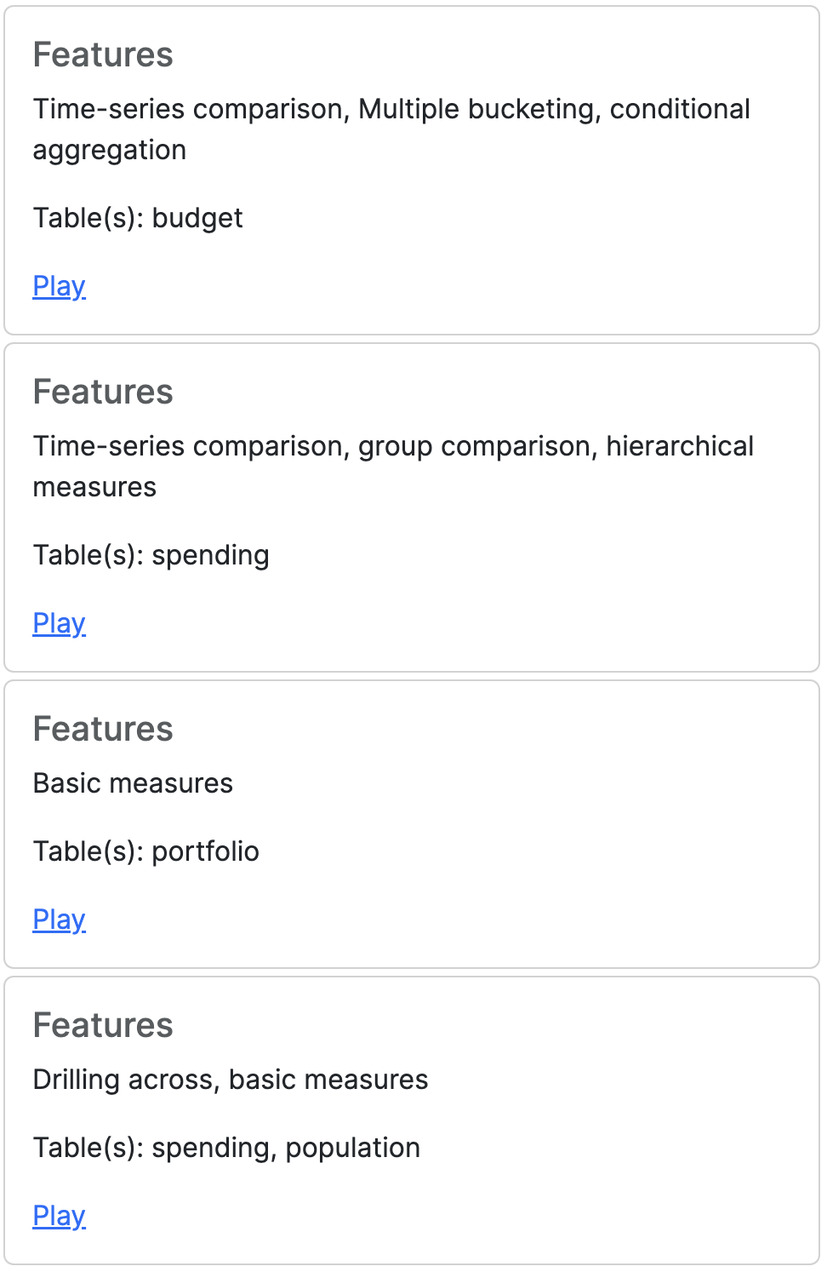
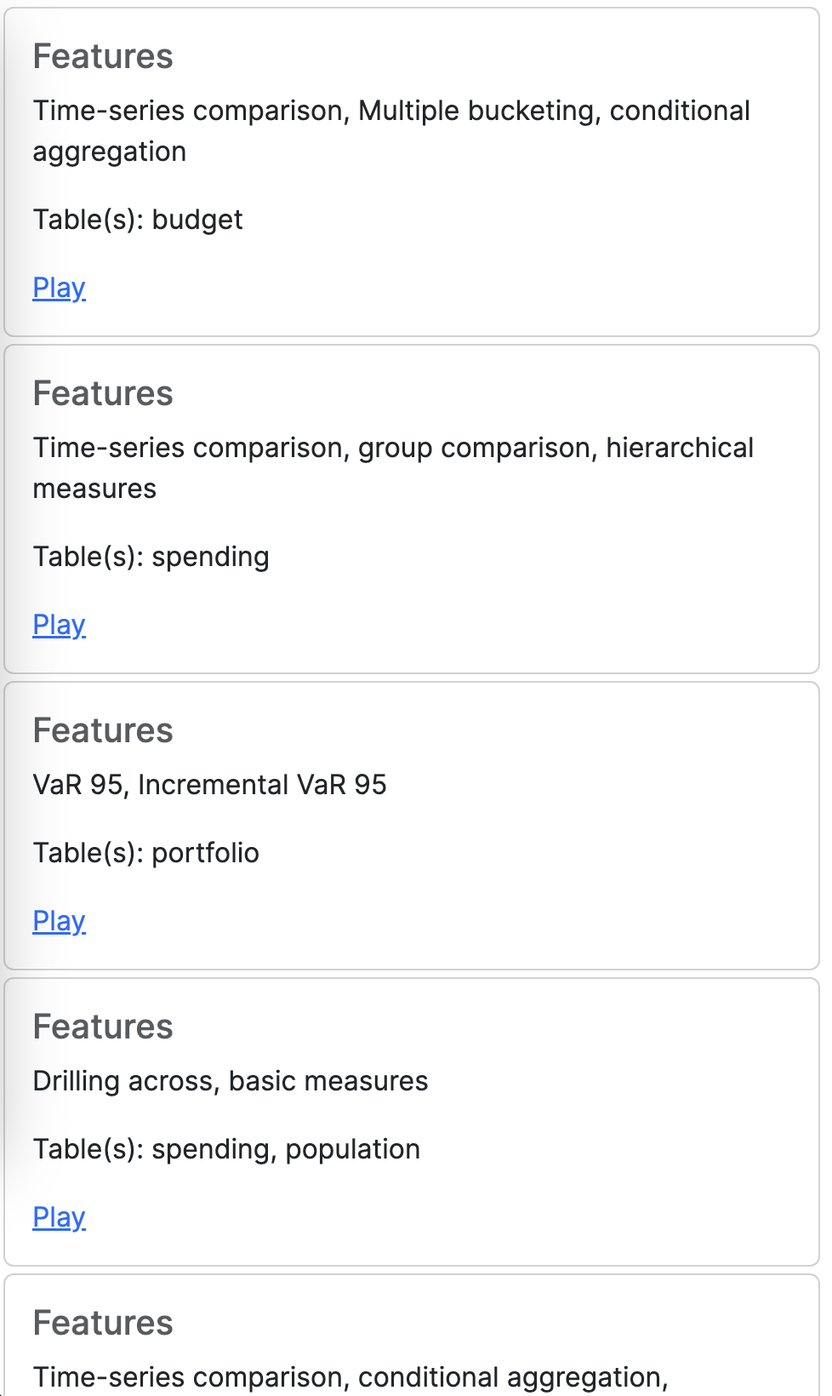
update tutorial (#38)

Changed region(s): [[0.0, 0.0, 1.0, 1.0], [0.9568, 0.9853, 0.9877, 1.0]]

diff --git a/ui/src/app/page.tsx b/ui/src/app/page.tsx
@@ -35,7 +35,7 @@ export default function Page() {
                   features={["Drilling across", "basic measures"]}/>
             <Card link={"financialplanning"} tables={["forecast"]}
                   features={["Time-series comparison", "conditional aggregation", "hierarchical measures"]}/>
-            <Card link={"blank"} tables={["blank"]} features={[]}/>
+            <Card link={"blank"} tables={["blank"]} features={["Load your own csv file and create your own calculations"]}/>
           </div>
   )
 }

diff --git a/TUTORIAL.md b/TUTORIAL.md
@@ -121,7 +121,7 @@ Filter the table with `criterion(budget.scenario, eq("b"))`
 <details><summary>Code</summary>
 
 ```typescript
-const query = from("budget")
+const query = from(budget._name)
         .where(criterion(budget.scenario, eq("b")))
         .select([budget.year, budget.month, budget.category], [], [income, expenditure])
         .build()
@@ -185,7 +185,7 @@ Use the `minus` operator to compute the difference.
 
 ```typescript
 const netIncome = minus("Net income", income, expenditure)
-const query = from("budget")
+const query = from(budget._name)
         .where(criterion(budget.scenario, eq("b")))
         .select([budget.year, budget.month], [], [netIncome])
         .build()
@@ -263,9 +263,9 @@ Execute a query that shows the Net Income Growth for each year.
 <details><summary>Result</summary>
 
 ```typescript      
-const query = from("budget")
-        .where(criterion("Scenario", eq("b")))
-        .select(["Year"], [], [netIncome, netIncomeGrowth])
+const query = from(budget._name)
+        .where(criterion(budget.scenario, eq("b")))
+        .select([budget.year], [], [netIncome, netIncomeGrowth])
         .build()
 ```
 
@@ -337,8 +337,16 @@ And use this column, satisfaction level, for our analysis.
 
 Let's first define the virtual table in Typescript:
 ```typescript
-import {VirtualTable} from "@squashql/squashql-js"
-import {satisfactionLevels} from "./tables"
+import {TableField, VirtualTable} from "@squashql/squashql-js"
+
+class SatisfactionLevels {
+  readonly _name: string = "satisfaction_level"
+  readonly satisfactionLevel: TableField = new TableField("satisfaction_level.satisfaction_level")
+  readonly lowerBound: TableField = new TableField("satisfaction_level.lower_bound")
+  readonly upperBound: TableField = new TableField("satisfaction_level.upper_bound")
+}
+
+const satisfactionLevels = new SatisfactionLevels()
 
 const records = [
   ["neutral", 0, 2],
@@ -400,6 +408,15 @@ a new bucketing on top of the one described above.
 Let's define a new virtual table to classify expenses according to their cost. Expenses with amount between `[0, 10[` will 
 be classified as low, between `[10, 40[` as medium and between `[40, 500[` as high.
 ```typescript
+class ExpenseLevels {
+  readonly _name: string = "expense_level"
+  readonly expenseLevel: TableField = new TableField("expense_level.expense_level")
+  readonly lowerBound: TableField = new TableField("expense_level.lower_bound")
+  readonly upperBound: TableField = new TableField("expense_level.upper_bound")
+}
+
+const expenseLevels = new ExpenseLevels()
+
 const expenseLevelsRecords = [
   ["low", 0, 10],
   ["medium", 10, 40],
@@ -419,8 +436,8 @@ To use is, we simply join again on this table:
 const query = from(budget._name)
         .joinVirtual(satisfactionLevelsVT, JoinType.INNER)
         .on(all([
-          criterion_(budget.score, satisfactionLevels.lowerBound, ConditionType.GE),
-          criterion_(budget.score, satisfactionLevels.upperBound, ConditionType.LT)
+          criterion_(budget.happinessScore, satisfactionLevels.lowerBound, ConditionType.GE),
+          criterion_(budget.happinessScore, satisfactionLevels.upperBound, ConditionType.LT)
         ]))
         .joinVirtual(expenseLevelsVT, JoinType.INNER)
         .on(all([
@@ -502,18 +519,18 @@ const query = from(budget._name)
 <details><summary>Result</summary>
 
 ```
-+----------+------------+
-| Scenario | Net income |
-+----------+------------+
-|        b |       86.5 |
-|       sc |      260.5 |
-|      sco |      808.5 |
-|       sm |      506.5 |
-|      smc |      680.5 |
-|     smco |     1228.5 |
-|       so |      634.5 |
-|       ss |      473.5 |
-+----------+------------+
++-----------------+------------+
+| budget.Scenario | Net income |
++-----------------+------------+
+|               b |       66.5 |
+|              sc |      240.5 |
+|             sco |      788.5 |
+|              sm |      486.5 |
+|             smc |      660.5 |
+|            smco |     1208.5 |
+|              so |      614.5 |
+|              ss |      473.5 |
++-----------------+------------+
 ```
 </details>
 
@@ -555,23 +572,23 @@ const query = from(budget._name)
 <details><summary>Result</summary>
 
 ```
-+--------+----------+------------+
-|  group | Scenario | Net income |
-+--------+----------+------------+
-| group1 |        b |       86.5 |
-| group1 |       sc |      260.5 |
-| group1 |      sco |      808.5 |
-| group2 |        b |       86.5 |
-| group2 |       sm |      506.5 |
-| group2 |      smc |      680.5 |
-| group2 |     smco |     1228.5 |
-| group3 |        b |       86.5 |
-| group3 |       so |      634.5 |
-| group3 |      sco |      808.5 |
-| group3 |     smco |     1228.5 |
-| group4 |        b |       86.5 |
-| group4 |       ss |      473.5 |
-+--------+----------+------------+
++--------+-----------------+------------+
+|  group | budget.Scenario | Net income |
++--------+-----------------+------------+
+| group1 |               b |       66.5 |
+| group1 |              sc |      240.5 |
+| group1 |             sco |      788.5 |
+| group2 |               b |       66.5 |
+| group2 |              sm |      486.5 |
+| group2 |             smc |      660.5 |
+| group2 |            smco |     1208.5 |
+| group3 |               b |       66.5 |
+| group3 |              so |      614.5 |
+| group3 |             sco |      788.5 |
+| group3 |            smco |     1208.5 |
+| group4 |               b |       66.5 |
+| group4 |              ss |      473.5 |
++--------+-----------------+------------+
 ```
 </details>
 
@@ -586,7 +603,7 @@ Use the `comparisonMeasureWithinGroup` to create the comparison measure.
 <details><summary>Code</summary>
 
 ```typescript
-const netIncomeCompPrev = comparisonMeasureWithinGroup(
+const netIncomeCompPrev = comparisonMeasureWithinSameGroup(
         "Net Income comp. with prev. scenario",
         ComparisonMethod.ABSOLUTE_DIFFERENCE,
         netIncome,
@@ -606,23 +623,23 @@ const query = from(budget._name)
 ```
 
 ```
-+--------+----------+------------+--------------------------------------+
-|  group | Scenario | Net income | Net Income comp. with prev. scenario |
-+--------+----------+------------+--------------------------------------+
-| group1 |        b |       86.5 |                                  0.0 |
-| group1 |       sc |      260.5 |                                174.0 |
-| group1 |      sco |      808.5 |                                548.0 |
-| group2 |        b |       86.5 |                                  0.0 |
-| group2 |       sm |      506.5 |                                420.0 |
-| group2 |      smc |      680.5 |                                174.0 |
-| group2 |     smco |     1228.5 |                                548.0 |
-| group3 |        b |       86.5 |                                  0.0 |
-| group3 |       so |      634.5 |                                548.0 |
-| group3 |      sco |      808.5 |                                174.0 |
-| group3 |     smco |     1228.5 |                                420.0 |
-| group4 |        b |       86.5 |                                  0.0 |
-| group4 |       ss |      473.5 |                                387.0 |
-+--------+----------+------------+--------------------------------------+
++--------+-----------------+------------+--------------------------------------+
+|  group | budget.Scenario | Net income | Net Income comp. with prev. scenario |
++--------+-----------------+------------+--------------------------------------+
+| group1 |               b |       66.5 |                                  0.0 |
+| group1 |              sc |      240.5 |                                174.0 |
+| group1 |             sco |      788.5 |                                548.0 |
+| group2 |               b |       66.5 |                                  0.0 |
+| group2 |              sm |      486.5 |                                420.0 |
+| group2 |             smc |      660.5 |                                174.0 |
+| group2 |            smco |     1208.5 |                                548.0 |
+| group3 |               b |       66.5 |                                  0.0 |
+| group3 |              so |      614.5 |                                548.0 |
+| group3 |             sco |      788.5 |                                174.0 |
+| group3 |            smco |     1208.5 |                                420.0 |
+| group4 |               b |       66.5 |                                  0.0 |
+| group4 |              ss |      473.5 |                                407.0 |
++--------+-----------------+------------+--------------------------------------+
 ```
 </details>
 
@@ -637,8 +654,8 @@ in the same way *Net Income comp. with prev. scenario* has been done.
 <details><summary>Code</summary>
 
 ```typescript
-const happiness = sum("Happiness score sum", budget.score);
-const happinessCompPrev = comparisonMeasureWithinGroup(
+const happiness = sum("Happiness score sum", budget.happinessScore);
+const happinessCompPrev = comparisonMeasureWithinSameGroup(
         "Happiness score sum comp. with prev. scenario",
         ComparisonMethod.ABSOLUTE_DIFFERENCE,
         happiness,
@@ -658,23 +675,23 @@ const query = from(budget._name)
 ```
 
 ```
-+--------+----------+------+------------+---------------------+--------------------------------------+-----------------------------------------------+
-|  group | Scenario | Year | Net income | Happiness score sum | Net Income comp. with prev. scenario | Happiness score sum comp. with prev. scenario |
-+--------+----------+------+------------+---------------------+--------------------------------------+-----------------------------------------------+
-| group1 |        b | 2023 |       86.5 |                 132 |                                  0.0 |                                             0 |
-| group1 |       sc | 2023 |      260.5 |                 108 |                                174.0 |                                           -24 |
-| group1 |      sco | 2023 |      808.5 |                  95 |                                548.0 |                                           -13 |
-| group2 |        b | 2023 |       86.5 |                 132 |                                  0.0 |                                             0 |
-| group2 |       sm | 2023 |      506.5 |                  70 |                                420.0 |                                           -62 |
-| group2 |      smc | 2023 |      680.5 |                  46 |                                174.0 |                                           -24 |
-| group2 |     smco | 2023 |     1228.5 |                  33 |                                548.0 |                                           -13 |
-| group3 |        b | 2023 |       86.5 |                 132 |                                  0.0 |                                             0 |
-| group3 |       so | 2023 |      634.5 |                 119 |                                548.0 |                                           -13 |
-| group3 |      sco | 2023 |      808.5 |                  95 |                                174.0 |                                           -24 |
-| group3 |     smco | 2023 |     1228.5 |                  33 |                                420.0 |                                           -62 |
-| group4 |        b | 2023 |       86.5 |                 132 |                                  0.0 |                                             0 |
-| group4 |       ss | 2023 |      473.5 |                  99 |                                387.0 |                                           -33 |
-+--------+----------+------+------------+---------------------+--------------------------------------+-----------------------------------------------+
++--------+-----------------+------------+--------------------------------------+-----------------------------------------------+
+|  group | budget.Scenario | Net income | Net Income comp. with prev. scenario | Happiness score sum comp. with prev. scenario |
++--------+-----------------+------------+--------------------------------------+-----------------------------------------------+
+| group1 |               b |       66.5 |                                  0.0 |                                             0 |
+| group1 |              sc |      240.5 |                                174.0 |                                           -33 |
+| group1 |             sco |      788.5 |                                548.0 |                                           -28 |
+| group2 |               b |       66.5 |                                  0.0 |                                             0 |
+| group2 |              sm |      486.5 |                                420.0 |                                           -62 |
+| group2 |             smc |      660.5 |                                174.0 |                                           -33 |
+| group2 |            smco |     1208.5 |                                548.0 |                                           -28 |
+| group3 |               b |       66.5 |                                  0.0 |                                             0 |
+| group3 |              so |      614.5 |                                548.0 |                                           -28 |
+| group3 |             sco |      788.5 |                                174.0 |                                           -33 |
+| group3 |            smco |     1208.5 |                                420.0 |                                           -62 |
+| group4 |               b |       66.5 |                                  0.0 |                                             0 |
+| group4 |              ss |      473.5 |                                407.0 |                                           -21 |
++--------+-----------------+------------+--------------------------------------+-----------------------------------------------+
 ```
 </details>
 
@@ -688,12 +705,12 @@ Use the `first` keyword in `{["Scenario"]: "s-1"}` to change the reference posit
 <details><summary>Code</summary>
 
 ```typescript
-const netIncomeCompFirst = comparisonMeasureWithinGroup(
+const netIncomeCompFirst = comparisonMeasureWithinSameGroup(
         "Net Income comp. with first scenario",
         ComparisonMethod.ABSOLUTE_DIFFERENCE,
         netIncome,
         new Map([[budget.scenario, "first"]]))
-const happinessCompFirst = comparisonMeasureWithinGroup(
+const happinessCompFirst = comparisonMeasureWithinSameGroup(
         "Happiness score sum comp. with first scenario",
         ComparisonMethod.ABSOLUTE_DIFFERENCE,
         happiness,
@@ -713,23 +730,23 @@ const query = from(budget._name)
 ```
 
 ```
-+--------+----------+------+------------+---------------------+--------------------------------------+--------------------------------------+-----------------------------------------------+-----------------------------------------------+
-|  group | Scenario | Year | Net income | Happiness score sum | Net Income comp. with prev. scenario | Net Income comp. with first scenario | Happiness score sum comp. with prev. scenario | Happiness score sum comp. with first scenario |
-+--------+----------+------+------------+---------------------+--------------------------------------+--------------------------------------+-----------------------------------------------+-----------------------------------------------+
-| group1 |        b | 2023 |       86.5 |                 132 |                                  0.0 |                                  0.0 |                                             0 |                                             0 |
-| group1 |       sc | 2023 |      260.5 |                 108 |                                174.0 |                                174.0 |                                           -24 |                                           -24 |
-| group1 |      sco | 2023 |      808.5 |                  95 |                                548.0 |                                722.0 |                                           -13 |                                           -37 |
-| group2 |        b | 2023 |       86.5 |                 132 |                                  0.0 |                                  0.0 |                                             0 |                                             0 |
-| group2 |       sm | 2023 |      506.5 |                  70 |                                420.0 |                                420.0 |                                           -62 |                                           -62 |
-| group2 |      smc | 2023 |      680.5 |                  46 |                                174.0 |                                594.0 |                                           -24 |                                           -86 |
-| group2 |     smco | 2023 |     1228.5 |                  33 |                                548.0 |                               1142.0 |                                           -13 |                                           -99 |
-| group3 |        b | 2023 |       86.5 |                 132 |                                  0.0 |                                  0.0 |                                             0 |                                             0 |
-| group3 |       so | 2023 |      634.5 |                 119 |                                548.0 |                                548.0 |                                           -13 |                                           -13 |
-| group3 |      sco | 2023 |      808.5 |                  95 |                                174.0 |                                722.0 |                                           -24 |                                           -37 |
-| group3 |     smco | 2023 |     1228.5 |                  33 |                                420.0 |                               1142.0 |                                           -62 |                                           -99 |
-| group4 |        b | 2023 |       86.5 |                 132 |                                  0.0 |                                  0.0 |                                             0 |                                             0 |
-| group4 |       ss | 2023 |      473.5 |                  99 |                                387.0 |                                387.0 |                                           -33 |                                           -33 |
-+--------+----------+------+------------+---------------------+--------------------------------------+--------------------------------------+-----------------------------------------------+-----------------------------------------------+
++--------+-----------------+-------------+------------+---------------------+--------------------------------------+--------------------------------------+-----------------------------------------------+-----------------------------------------------+
+|  group | budget.Scenario | budget.Year | Net income | Happiness score sum | Net Income comp. with prev. scenario | Net Income comp. with first scenario | Happiness score sum comp. with prev. scenario | Happiness score sum comp. with first scenario |
++--------+-----------------+-------------+------------+---------------------+--------------------------------------+--------------------------------------+-----------------------------------------------+-----------------------------------------------+
+| group1 |               b |        2023 |       66.5 |                 144 |                                  0.0 |                                  0.0 |                                             0 |                                             0 |
+| group1 |              sc |        2023 |      240.5 |                 111 |                                174.0 |                                174.0 |                                           -33 |                                           -33 |
+| group1 |             sco |        2023 |      788.5 |                  83 |                                548.0 |                                722.0 |                                           -28 |                                           -61 |
+| group2 |               b |        2023 |       66.5 |                 144 |                                  0.0 |                                  0.0 |                                             0 |                                             0 |
+| group2 |              sm |        2023 |      486.5 |                  82 |                                420.0 |                                420.0 |                                           -62 |                                           -62 |
+| group2 |             smc |        2023 |      660.5 |                  49 |                                174.0 |                                594.0 |                                           -33 |                                           -95 |
+| group2 |            smco |        2023 |     1208.5 |                  21 |                                548.0 |                               1142.0 |                                           -28 |                                          -123 |
+| group3 |               b |        2023 |       66.5 |                 144 |                                  0.0 |                                  0.0 |                                             0 |                                             0 |
+| group3 |              so |        2023 |      614.5 |                 116 |                                548.0 |                                548.0 |                                           -28 |                                           -28 |
+| group3 |             sco |        2023 |      788.5 |                  83 |                                174.0 |                                722.0 |                                           -33 |                                           -61 |
+| group3 |            smco |        2023 |     1208.5 |                  21 |                                420.0 |                               1142.0 |                                           -62 |                                          -123 |
+| group4 |               b |        2023 |       66.5 |                 144 |                                  0.0 |                                  0.0 |                                             0 |                                             0 |
+| group4 |              ss |        2023 |      473.5 |                 123 |                                407.0 |                                407.0 |                                           -21 |                                           -21 |
++--------+-----------------+-------------+------------+---------------------+--------------------------------------+--------------------------------------+-----------------------------------------------+-----------------------------------------------+
 ```
 </details>
 
@@ -761,20 +778,20 @@ Note: if you use VSCode, line in Terminal are wrapped leading to printing an unr
 in the Terminal and click on "Toggle Size to Content Width". Table should look like this.
 
 ```
-+-------------+-------------+--------------------+----------------------+----------------+---------------------------------+---------------------+--------------------+---------------------+
-|    Category |    Category |        Grand Total | Cigarettes & Alcohol | Current Income | Media & Clothes & Food Delivery | Minimum expenditure |   Outing Lifestyle | Sport & Game & misc |
-|        Year |       Month |        Expenditure |          Expenditure |    Expenditure |                     Expenditure |         Expenditure |        Expenditure |         Expenditure |
-+-------------+-------------+--------------------+----------------------+----------------+---------------------------------+---------------------+--------------------+---------------------+
-| Grand Total | Grand Total | 11543.240000000005 |   335.82000000000005 |            NaN |                          813.91 |   8573.500000000002 |             1057.7 |              762.31 |
-|        2022 |       Total |  5599.740000000005 |   161.82000000000002 |            NaN |              393.90999999999997 |   4159.000000000002 |              509.7 |              375.31 |
-|        2022 |           1 | 1823.0399999999997 |   54.870000000000005 |            NaN |                          118.75 |             1383.87 |             141.38 |  124.17000000000002 |
-|        2022 |           2 | 1920.9299999999996 |                58.59 |            NaN |              202.22000000000003 |  1389.7999999999997 |             149.75 |              120.57 |
-|        2022 |           3 | 1855.7699999999995 |                48.36 |            NaN |                           72.94 |             1385.33 | 218.57000000000005 |              130.57 |
-|        2023 |       Total |             5943.5 |                174.0 |            NaN |                           420.0 |              4414.5 |              548.0 |               387.0 |
-|        2023 |           1 |             1938.5 |                 59.0 |            NaN |                           127.0 |              1471.5 |              152.0 |               129.0 |
-|        2023 |           2 |             2035.5 |                 63.0 |            NaN |                           216.0 |              1471.5 |              161.0 |               124.0 |
-|        2023 |           3 |             1969.5 |                 52.0 |            NaN |                            77.0 |              1471.5 |              235.0 |               134.0 |
-+-------------+-------------+--------------------+----------------------+----------------+---------------------------------+---------------------+--------------------+---------------------+
++-----------------+-----------------+--------------------+----------------------+----------------+---------------------------------+---------------------+--------------------+---------------------+
+| budget.Category | budget.Category |        Grand Total | Cigarettes & Alcohol | Current Income | Media & Clothes & Food Delivery | Minimum expenditure |   Outing Lifestyle | Sport & Game & misc |
+|     budget.Year |    budget.Month |        Expenditure |          Expenditure |    Expenditure |                     Expenditure |         Expenditure |        Expenditure |         Expenditure |
++-----------------+-----------------+--------------------+----------------------+----------------+---------------------------------+---------------------+--------------------+---------------------+
+|     Grand Total |     Grand Total | 11583.240000000005 |   335.82000000000005 |            NaN |                          813.91 |   8573.500000000002 |             1057.7 |              802.31 |
+|            2022 |           Total |  5619.740000000005 |   161.82000000000002 |            NaN |              393.90999999999997 |   4159.000000000002 |              509.7 |              395.31 |
+|            2022 |               1 | 1843.0399999999997 |   54.870000000000005 |            NaN |                          118.75 |             1383.87 |             141.38 |  144.17000000000002 |
+|            2022 |               2 | 1920.9299999999996 |                58.59 |            NaN |              202.22000000000003 |  1389.7999999999997 |             149.75 |              120.57 |
+|            2022 |               3 | 1855.7699999999995 |                48.36 |            NaN |                           72.94 |             1385.33 | 218.57000000000005 |              130.57 |
+|            2023 |           Total |             5963.5 |                174.0 |            NaN |                           420.0 |              4414.5 |              548.0 |               407.0 |
+|            2023 |               1 |             1958.5 |                 59.0 |            NaN |                           127.0 |              1471.5 |              152.0 |               149.0 |
+|            2023 |               2 |             2035.5 |                 63.0 |            NaN |                           216.0 |              1471.5 |              161.0 |               124.0 |
+|            2023 |               3 |             1969.5 |                 52.0 |            NaN |                            77.0 |              1471.5 |              235.0 |               134.0 |
++-----------------+-----------------+--------------------+----------------------+----------------+---------------------------------+---------------------+--------------------+---------------------+
 ```
 
 You can also run interactive queries by launching the ui project available in this repository. Navigate to `ui/`, then run the development server:
@@ -789,7 +806,12 @@ pnpm dev
 bun dev
 ```
 
-Open [http://localhost:3000/tutorial](http://localhost:3000/tutorial) with your browser. 
+Open [http://localhost:3000/tutorial](http://localhost:3000/tutorial) with your browser. Click on the following button
+to display the pivot table editor:
+
+<img width="40" src="documentation/assets/pivot-table-editor-button.png">
+
+Start selecting the fields in Rows and Columns and add any measures.
 
 <img width="1000" src="documentation/assets/pivot-table-1.png">
 
@@ -799,8 +821,8 @@ Another example with the "double bucketing" saw earlier. As a reminder, the quer
 const query = from(budget._name)
         .joinVirtual(satisfactionLevelsVT, JoinType.INNER)
         .on(all([
-          criterion_(budget.score, satisfactionLevels.lowerBound, ConditionType.GE),
-          criterion_(budget.score, satisfactionLevels.upperBound, ConditionType.LT)
+          criterion_(budget.happinessScore, satisfactionLevels.lowerBound, ConditionType.GE),
+          criterion_(budget.happinessScore, satisfactionLevels.upperBound, ConditionType.LT)
         ]))
         .joinVirtual(expenseLevelsVT, JoinType.INNER)
         .on(all([
@@ -835,3 +857,7 @@ querier.executePivotQuery(query, pivotConfig, true)
 </details>
 
 <img width="1000" src="documentation/assets/pivot-table-2.png">
+
+You can even dynamically change the bounds of the satisfaction levels !
+
+<img width="300" src="documentation/assets/change-satisfaction-level.png">

diff --git a/README.md b/README.md
@@ -102,7 +102,7 @@ To start Next.js in development mode.
 npm --prefix ui run dev
 ```
 
-Open `http://localhost:3000` in your browser. You will see 4 cards. Each one of them will show you one or several SquashQL 
+Open `http://localhost:3000` in your browser. You will see 6 cards. Each one of them will show you one or several SquashQL 
 feature. Do not hesitate to try them all! Here's the full list of features and below some examples: conditional aggregation, 
 basic aggregation, time-series comparison, multiple dynamic bucketing, group comparison, hierarchical measures, drilling across.
 
